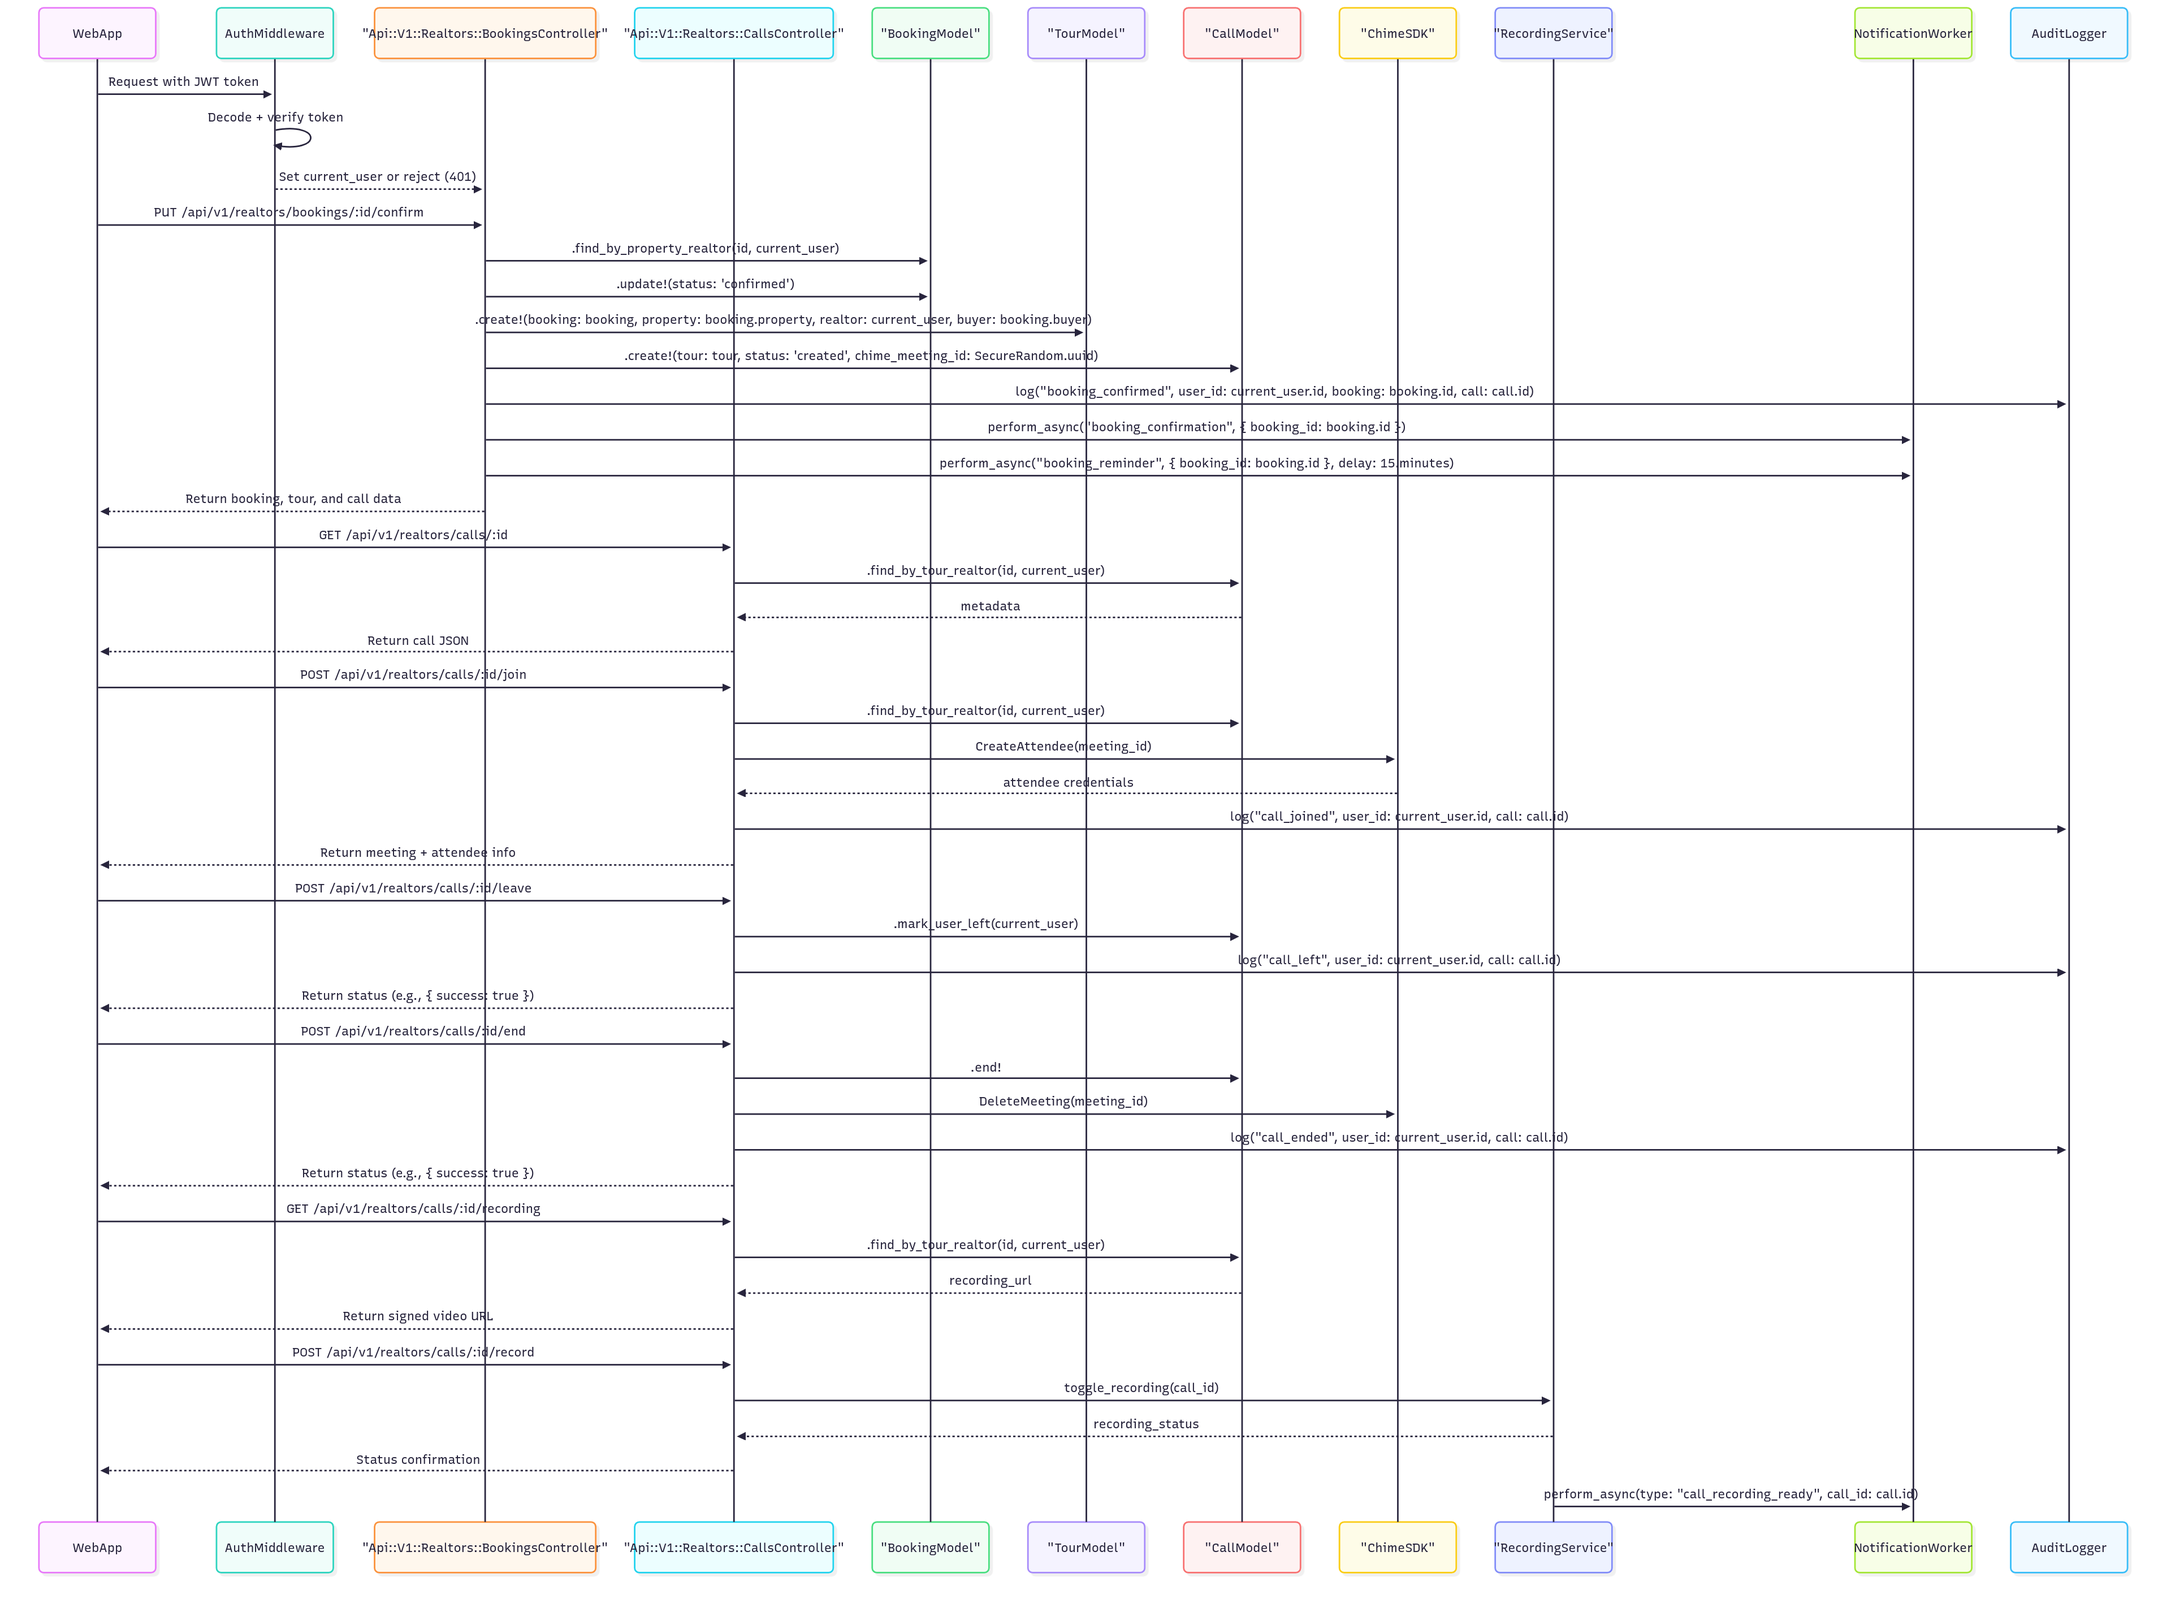
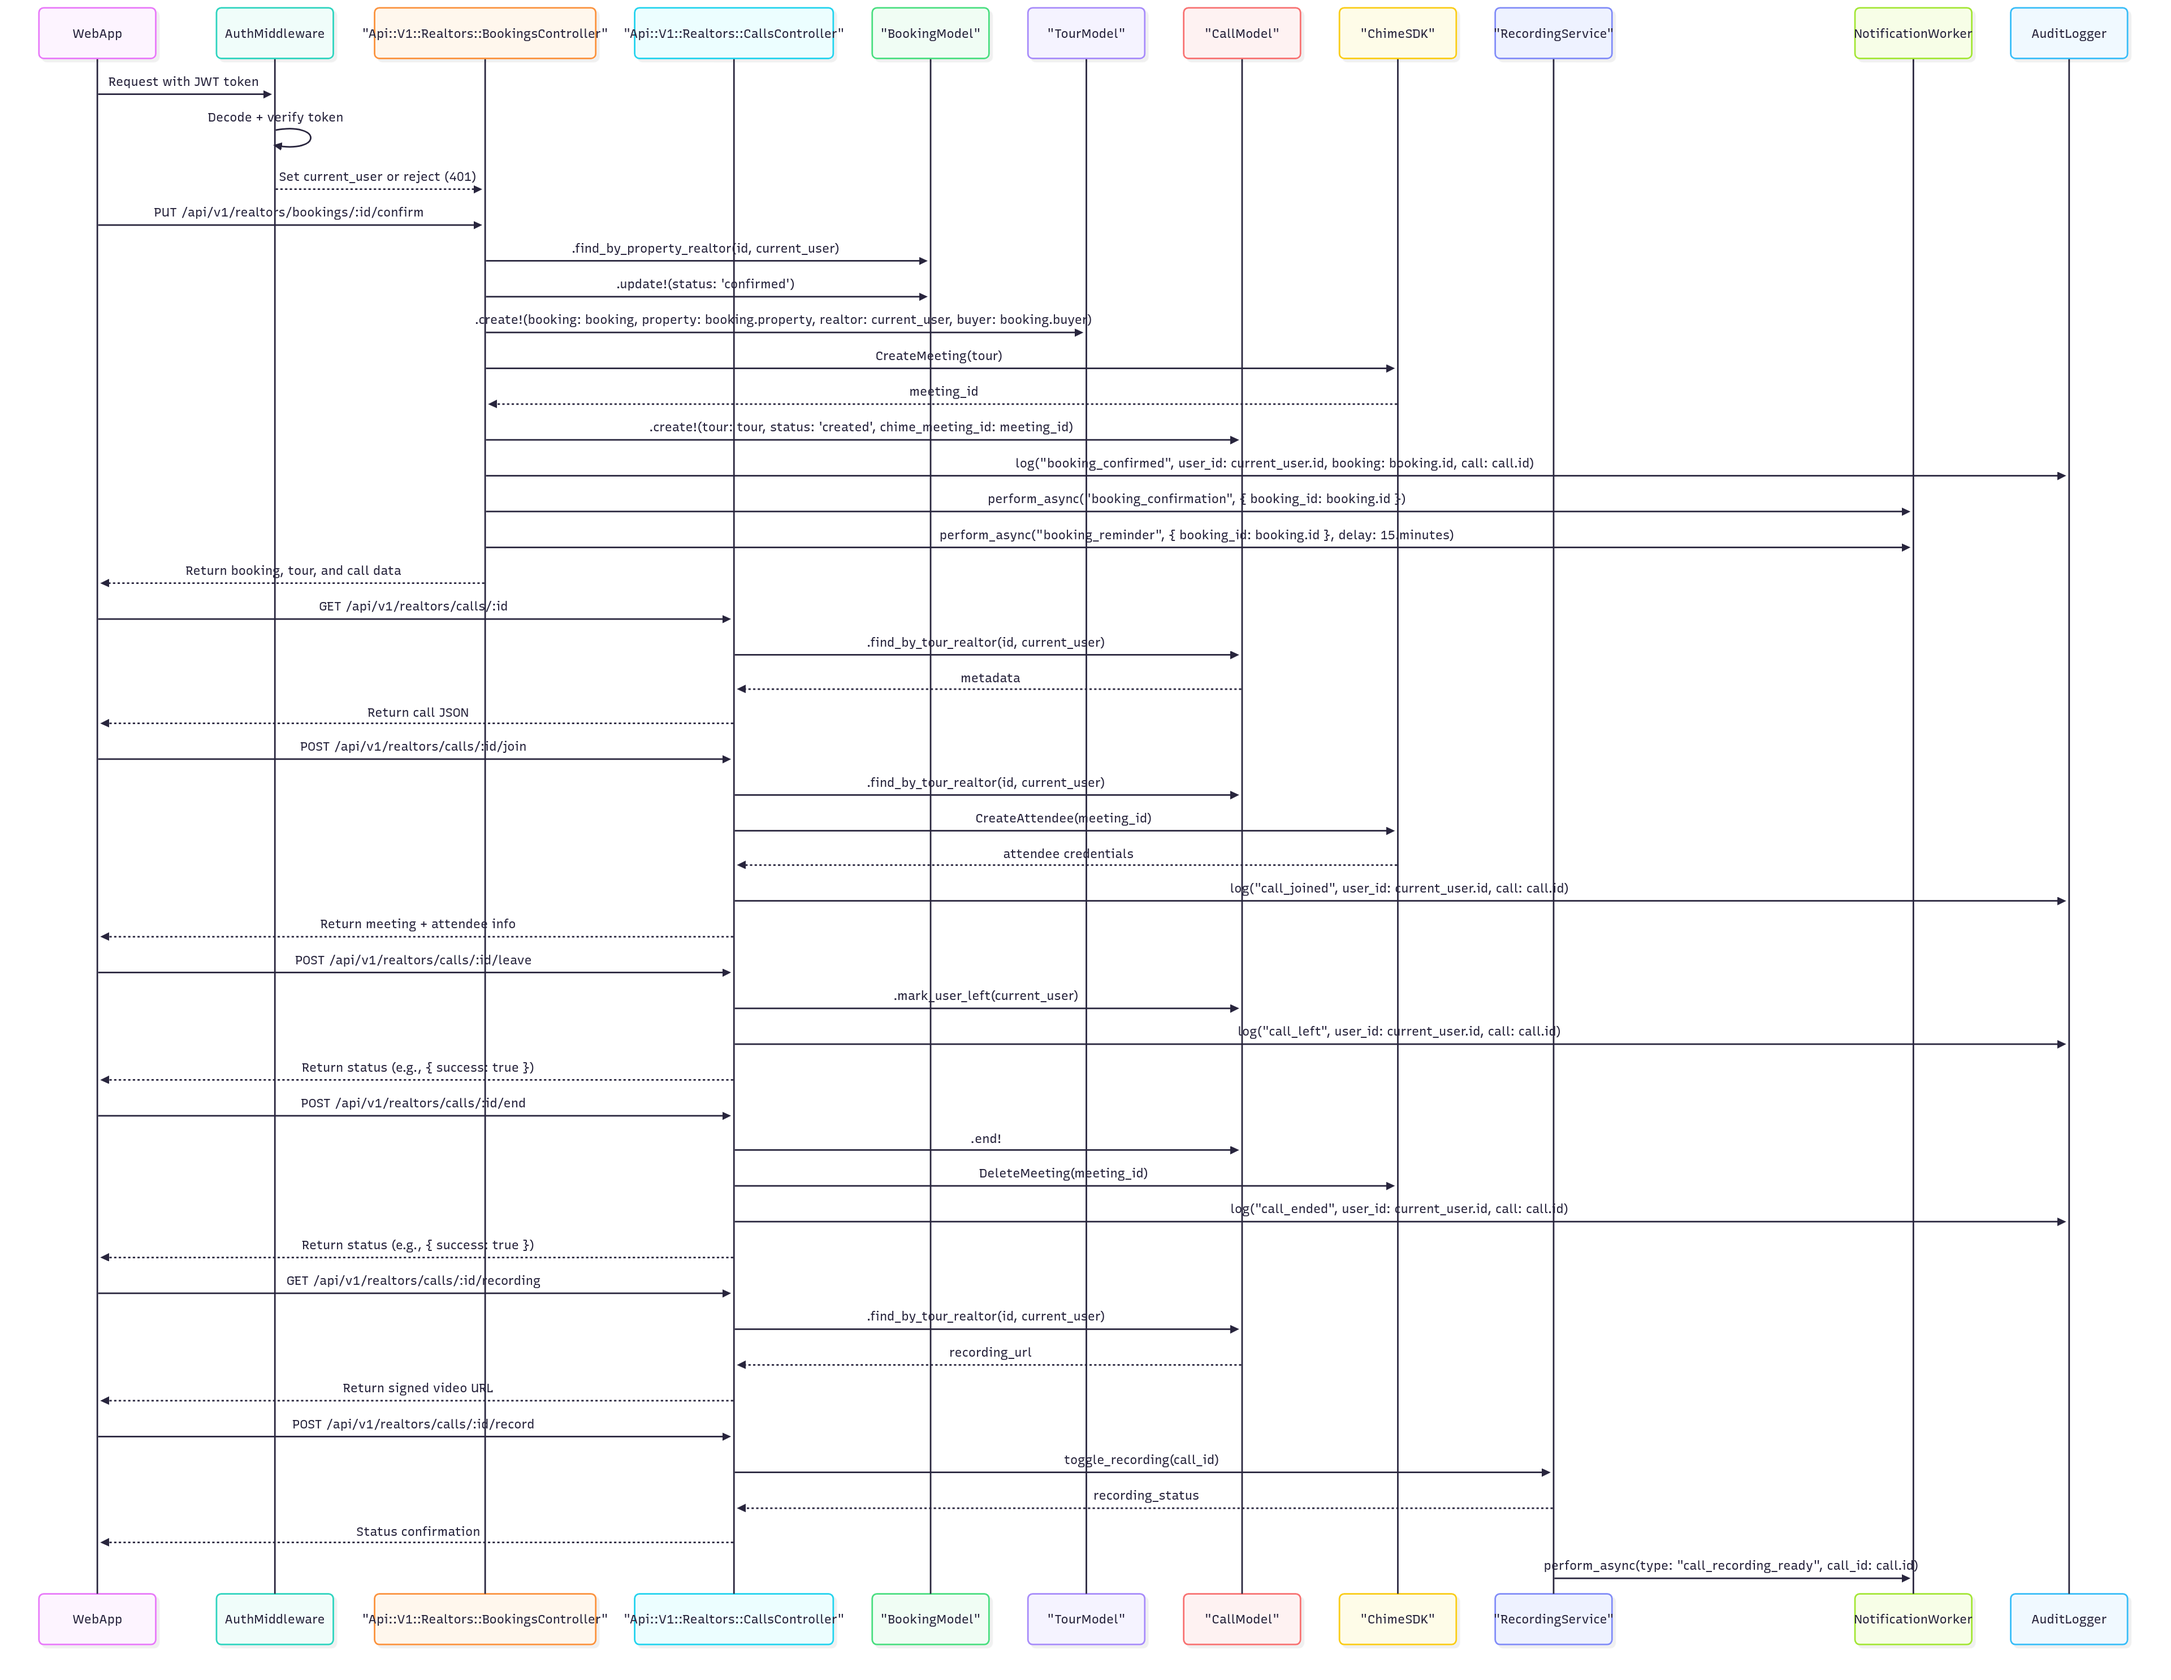
use chime_service.create_meeting(tour) in diagram and add it in the code

diff --git a/architecture/BACKEND_ARCHITECTURE.md b/architecture/BACKEND_ARCHITECTURE.md
@@ -657,11 +657,15 @@ class Api::V1::Realtors::BookingsController < ApplicationController
         scheduled_at: booking.scheduled_at
       )
       
+      # Create Chime meeting and call
+      chime_service = ChimeService.new
+      meeting = chime_service.create_meeting(tour)
+      
       # Create call
       call = Call.create!(
         tour: tour,
         status: 'created',
-        chime_meeting_id: SecureRandom.uuid
+        chime_meeting_id: meeting.meeting_id
       )
       
       # Send confirmation to both parties
